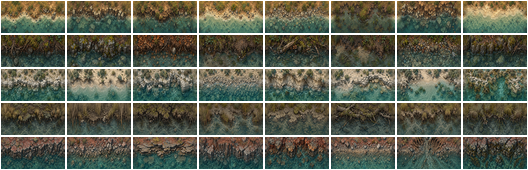
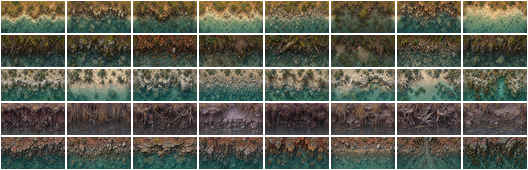
Add custom ridge boundaries bridge spans and plum peat banks

Changed region(s): [[0.0, 0.5882, 1.0, 0.7941]]

diff --git a/images/dark-fantasy/map-generation-prototype/terrain-composition.js b/images/dark-fantasy/map-generation-prototype/terrain-composition.js
@@ -51,12 +51,12 @@ export function composeTerrainLandscape({ map, art, pixel, world, legal, detail 
   const rand = salt => decorationRandom(map.seed ^ 48317, salt);
   const baseKind = kind => kind.replace(/-mirror$/, '').replace(/-small$/, '');
   const make = (kind, x, y, family, salt, allowedBiomes, context) => {
-    const glyph = art[kind], s = shape(glyph), point = world(Math.round(x), Math.round(y + s.height * .5));
+    const glyph = art[kind], s = shape(glyph), point = world(Math.round(x), Math.round(y + s.height * (context === 'ridge-boundary' ? .68 : .5)));
     const p = pixel(point), n = Number(baseKind(kind).split('-').at(-1));
     return { kind, point, salt, family, allowedBiomes, context, composed: true,
       left: Math.round(p.x - s.width / 2), top: Math.round(p.y - s.height),
-      boundary: context !== 'interior', range: family === 'terrain-mountains',
-      peak: family === 'terrain-mountains' && [0, 1, 2, 4, 10].includes(n)
+      boundary: context !== 'interior', ridgeBoundary: context === 'ridge-boundary', anchorHeight: context === 'ridge-boundary' ? .68 : .5, range: family === 'terrain-mountains' || family === 'terrain-ridge-border',
+      peak: family === 'terrain-ridge-border' || family === 'terrain-mountains' && [0, 1, 2, 4, 10].includes(n)
         || family.startsWith('contact-') && CONTACT_PAIRS[Number(family.slice(8))].includes('mountains') && n !== 3 };
   };
   const nearby = prop => props.filter(p => Math.abs(p.left - prop.left) < 85 * detail && Math.abs(p.top - prop.top) < 65 * detail);
@@ -84,7 +84,7 @@ export function composeTerrainLandscape({ map, art, pixel, world, legal, detail 
       for (const p of near) overlap = Math.max(overlap, illustrationOverlap(prop, p, art));
       if (overlap > .58) continue;
       const join = previous ? illustrationOverlap(prop, previous, art) : 0;
-      if (previous && (join < (context === 'ridge' ? .12 : .06) || join > .46)) continue;
+      if (previous && (join < (context.startsWith('ridge') ? .12 : .06) || join > .46)) continue;
       const score = rand(salt + attempt * 31 + 4) * .3
         + (previous ? 1 - Math.abs(join - .22) * 3 : Math.min(.3, overlap)) - Math.max(0, overlap - .38);
       options.push({ prop, score, join });
@@ -94,8 +94,9 @@ export function composeTerrainLandscape({ map, art, pixel, world, legal, detail 
   };
 
   const paths = [];
+  const ridgeArt = !!art['terrain-ridge-border-0'];
   for (const [i, feature] of map.features.entries()) if (feature.type === 'ridge')
-    paths.push({ points: feature.points.map(pixel), family: 'terrain-mountains', allowedBiomes: ['plains', 'forest', 'swamp', 'mountains'], indices: [0, 1, 2, 4, 5, 6, 8, 9], salt: 3001 + i * 991, context: 'ridge' });
+    paths.push({ points: feature.points.map(pixel), family: ridgeArt ? 'terrain-ridge-border' : 'terrain-mountains', directional: ridgeArt, allowedBiomes: ['plains', 'forest', 'swamp', 'mountains'], indices: ridgeArt ? [0, 1, 2, 3, 4, 6, 7, 10] : [0, 1, 2, 4, 5, 6, 8, 9], salt: 3001 + i * 991, context: ridgeArt ? 'ridge-boundary' : 'ridge' });
   // Mountain biomes carry a connected major-axis spine, with low flanks below.
   for (const [i, region] of map.regions.entries()) if (region.biome === 'mountains') {
     const outline = region.outline.map(pixel), centre = pixel(region.centre);
@@ -112,10 +113,11 @@ export function composeTerrainLandscape({ map, art, pixel, world, legal, detail 
   for (const [i, edge] of map.edges.entries()) {
     if (edge.regions.length !== 2) continue;
     const pair = edge.regions.map(id => regions.get(id).biome);
-    if (pair[0] === pair[1]) continue;
+    if (pair[0] === pair[1] && !(ridgeArt && pair.includes('mountains'))) continue;
     const contact = CONTACT_PAIRS.findIndex(p => p.includes(pair[0]) && p.includes(pair[1]));
-    paths.push({ points: edge.points.map(pixel), family: `contact-${contact}`, indices: [0, 1, 2, 3, 4],
-      allowedBiomes: pair, salt: 20003 + i * 919, context: 'boundary' });
+    paths.push({ points: edge.points.map(pixel), family: ridgeArt && pair.includes('mountains') ? 'terrain-ridge-border' : `contact-${contact}`,
+      directional: ridgeArt && pair.includes('mountains'), indices: ridgeArt && pair.includes('mountains') ? [0, 1, 2, 3, 4, 6, 7, 10] : [0, 1, 2, 3, 4],
+      allowedBiomes: pair, salt: 20003 + i * 919, context: ridgeArt && pair.includes('mountains') ? 'ridge-boundary' : 'boundary' });
   }
   for (const [i, coast] of map.geography.coasts.entries()) {
     const edge = map.edges.find(e => e.id === coast.edgeId);
@@ -147,6 +149,7 @@ export function composeTerrainLandscape({ map, art, pixel, world, legal, detail 
 
   // Step by each accepted painting's footprint, vary the spacing, and require
   // real alpha overlap when extending a run. No equal slots or parallel rows.
+  paths.sort((a, b) => Number(b.context === 'ridge-boundary') - Number(a.context === 'ridge-boundary'));
   for (const path of paths) {
     diagnostics.paths++;
     let travelled = 0, next = rand(path.salt) * 12 * detail, previous = null, attempts = 0;
@@ -155,16 +158,19 @@ export function composeTerrainLandscape({ map, art, pixel, world, legal, detail 
       while (length && next <= travelled + length) {
         const t = (next - travelled) / length, x = a.x + (b.x - a.x) * t, y = a.y + (b.y - a.y) * t;
         const salt = path.salt + (++attempts) * 719;
-        let prop = choose({ ...path, x, y, salt, previous });
+        const dx = b.x - a.x, dy = b.y - a.y;
+        const recipe = { ...path, indices: !path.directional ? path.indices : Math.abs(dy) < Math.abs(dx) * .4 ? [0, 1, 6, 7, 10]
+          : Math.abs(dy) > Math.abs(dx) * 2 ? [4, 5, 7, 10] : dx * dy < 0 ? [2, 6, 7, 10] : [3, 6, 7, 10] };
+        let prop = choose({ ...recipe, x, y, salt, previous });
         // Search either side of the predicted join before declaring a gap.
         // This adapts to differently shaped paintings and curved boundaries.
         if (!prop && previous) for (const offset of [-5, 5, -9]) {
-          prop = choose({ ...path, x: x + (b.x - a.x) / length * offset * detail,
+          prop = choose({ ...recipe, x: x + (b.x - a.x) / length * offset * detail,
             y: y + (b.y - a.y) / length * offset * detail, salt: salt + offset * 113, previous });
           if (prop) break;
         }
         if (!prop && previous) { diagnostics.breaks++; previous = null; }
-        if (!prop) prop = choose({ ...path, x, y, salt });
+        if (!prop) prop = choose({ ...recipe, x, y, salt });
         if (prop) {
           if (previous) diagnostics.joined++;
           add(prop); previous = prop;

diff --git a/images/dark-fantasy/map-generation-prototype/pixel-terrain.js b/images/dark-fantasy/map-generation-prototype/pixel-terrain.js
@@ -19,7 +19,7 @@ const ATLAS_GROUND = {
   plains: [0x9f8c69, 0xac9670, 0xb7a17b, 0xc5b18d],
   forest: [0x777556, 0x898164, 0x969174, 0xa39b7b],
   islands: [0x9eaa83, 0xabb48e, 0xb5bc99, 0xc1c5a6],
-  swamp: [0x515f5b, 0x65736c, 0x7d8b7b, 0x9ba38c],
+  swamp: [0x55505d, 0x6d6170, 0x867b87, 0x9c8c99],
   mountains: [0x827869, 0x958774, 0xa49782, 0xb4a792],
   highlands: [0x25292e, 0x30353c, 0x3d434b, 0x4b5159],
   marsh: [0x202429, 0x2b2f36, 0x363b42, 0x454b51],
@@ -77,8 +77,8 @@ const samplePlane = (plane, x, y) => x < plane.x || y < plane.y || x >= plane.x 
 function glyphPosition(terrain, prop, flipX, flipY) {
   const art = ART_BANKS[terrain.stats.texel === 2 ? 2 : 1][prop.kind], { texel } = terrain.stats, sx = flipX ? -1 : 1, sy = flipY ? -1 : 1;
   return { sx, sy, left: Math.round(sx * (prop.point.x - terrain.bounds.minX) * 1576 / texel - Math.max(...art.rows.map(r => r.length)) / 2),
-    top: Math.round(sy * ((prop.point.y - terrain.bounds.minY) * 516 / texel - (prop.composed ? art.rows.length / 2 : 0))
-      - art.rows.length * (prop.composed ? .5 : 1)) };
+    top: Math.round(sy * ((prop.point.y - terrain.bounds.minY) * 516 / texel - (prop.composed ? art.rows.length * (prop.anchorHeight ?? .5) : 0))
+      - art.rows.length * (prop.composed ? 1 - (prop.anchorHeight ?? .5) : 1)) };
 }
 function mixColour(a, b, t) {
   return [16, 8, 0].reduce((c, shift) => c | Math.round(((a >> shift) & 255) * (1 - t) + ((b >> shift) & 255) * t) << shift, 0);
@@ -112,7 +112,7 @@ export function reliefSpriteTextures(terrain, flipX, flipY) {
       if (prop.kind.includes('hill') && !art.illustrated && code !== 'a' && code !== 'b') colour = mixColour(colour, bank[2], .75);
       const foot = Math.min(1, (art.rows.length - y) / Math.max(3, art.rows.length * (art.composable ? .22 : .12)));
       ctx.globalAlpha = (art.opacity?.[y][x] ?? (code === 'f' ? .32 : 1)) * foot
-        * (1 - samplePlane(terrain.divisionClearance, ix, iy) / 255);
+        * (prop.ridgeBoundary ? 1 : 1 - samplePlane(terrain.divisionClearance, ix, iy) / 255);
       ctx.fillStyle = `#${colour.toString(16).padStart(6, '0')}`;
       ctx.fillRect(i % columns * cell + 2 + x, Math.floor(i / columns) * cell + 2 + y, 1, 1);
     }));
@@ -138,8 +138,8 @@ export function pixelSpriteFits(terrain, prop, flipX, flipY) {
   const art = ART_BANKS[terrain.stats.texel === 2 ? 2 : 1][prop.kind], { texel, width, height } = terrain.stats;
   const px = (prop.point.x - terrain.bounds.minX) * 1576 / texel, py = (prop.point.y - terrain.bounds.minY) * 516 / texel;
   const sx = flipX ? -1 : 1, sy = flipY ? -1 : 1, w = Math.max(...art.rows.map(r => r.length));
-  const left = Math.round(sx * px - w / 2), top = Math.round(sy * (py - (prop.composed ? art.rows.length / 2 : 0))
-    - art.rows.length * (prop.composed ? .5 : 1));
+  const left = Math.round(sx * px - w / 2), top = Math.round(sy * (py - (prop.composed ? art.rows.length * (prop.anchorHeight ?? .5) : 0))
+    - art.rows.length * (prop.composed ? 1 - (prop.anchorHeight ?? .5) : 1));
   return art.rows.every((row, y) => [...row].every((code, x) => {
     if (code === '.') return true;
     const ix = Math.floor(sx * (left + x + .5)), iy = Math.floor(sy * (top + y + .5));
@@ -250,7 +250,8 @@ export function bakePixelTerrain(map, { texel = 2, sampleBackground, sites = tru
   const surfaceTreatments = paintOcean({ map, width, height, texel, bounds, land, waterIndices, colours,
     regionIds, seaDistance, dryDistance, shoreTypes, waterBank, groundBank, noise, mixColour, waterBase, waterStrength, surfaces });
   const wetlands = paintWetlandPools({ map, pixel, width, height, detail, regionIds, land, dryDistance,
-    colours, waterIndices, waterBase, waterStrength, noise, mixColour });
+    colours, waterIndices, waterBase, waterStrength, noise, mixColour, surfaces, protectedCentres: sites ? map.regions.filter(r => r.biome !== 'islands')
+      .filter((r, i) => i === 2 || i === 7 || i === 12).map(r => pixel(r.centre)) : [] });
   const put = (x, y, colour, water = 0, onlyDry = false) => {
     if (x < 0 || y < 0 || x >= width || y >= height) return;
     const i = y * width + x; if (onlyDry && !land[i]) return;
@@ -470,7 +471,8 @@ export function bakePixelTerrain(map, { texel = 2, sampleBackground, sites = tru
     }
     const spans = bridgeSpans(samples, p => waterIndices[p.y * width + p.x], detail);
     bridges += spans.length;
-    for (const span of spans) paintBridge(span, detail, roadDot);
+    for (const [n, span] of spans.entries()) paintBridge(span, detail, roadDot, {
+      art: ART[`terrain-bridge-${(n + bridges + map.seed) % 8}`], context: roadCtx, origin: { x: bx, y: by } });
   }
   // Replace playable scatter with connected terrain compositions. Existing
   // background engraving and coastal accents remain; towns keep their anchors.

diff --git a/images/dark-fantasy/map-generation-prototype/wetland-ground.js b/images/dark-fantasy/map-generation-prototype/wetland-ground.js
@@ -1,28 +1,57 @@
 // Open wetland silhouettes remain readable at Fit; fine rushes come from art.
 // The pool field is world seeded and baked once, never regenerated by zoom.
 export function paintWetlandPools({ map, pixel, width, height, detail, regionIds, land, dryDistance,
-  colours, waterIndices, waterBase, waterStrength, noise, mixColour }) {
-  const centres = map.regions.map(r => pixel(r.centre));
-  const stats = { pools: 0, margins: 0 };
+  colours, waterIndices, waterBase, waterStrength, noise, mixColour, surfaces = null, protectedCentres = null }) {
+  const centres = protectedCentres ?? map.regions.map(r => pixel(r.centre));
+  const stats = { pools: 0, margins: 0, illustratedBanks: 0 };
   for (let y = 2; y < height - 2; y++) for (let x = 2; x < width - 2; x++) {
     const i = y * width + x, region = map.regions[regionIds[i]];
     if (!region || region.biome !== 'swamp' || !land[i] || waterIndices[i] || dryDistance[i] < 14) continue;
-    if (Math.hypot(x - centres[regionIds[i]].x, y - centres[regionIds[i]].y) < 10 * detail) continue;
     // Preserve dry approaches around fixtures and a margin for border banks.
     if ([i - 8, i + 8, i - width * 8, i + width * 8].some(j => regionIds[j] !== regionIds[i])) continue;
     const broad = noise(map.seed ^ 51991, x, y * 1.6, 29 * detail);
     const fine = noise(map.seed ^ 9713, x, y, 8 * detail);
-    const field = broad * .8 + fine * .2;
+    const approach = centres.reduce((d, p) => Math.min(d, Math.hypot(x - p.x, y - p.y)), Infinity);
+    const field = broad * .8 + fine * .2 - .28 * Math.exp(-((approach / (12 * detail)) ** 2));
     if (field > .61) {
       const depth = Math.min(1, (field - .61) * 6);
-      const base = mixColour(0x617b78, 0x3f5f63, depth);
+      const base = mixColour(0x6a687b, 0x434858, depth);
       const phase = ((x + Math.floor(y * .4)) % 8 + 8) % 8;
       waterIndices[i] = 48 + phase; waterBase[i] = base; waterStrength[i] = 18;
-      colours[i] = mixColour(base, 0x9aac9c, fine > .65 ? .24 : .07);
+      colours[i] = mixColour(base, 0xaaa1b2, fine > .65 ? .24 : .07);
       stats.pools++;
     } else if (field > .55) {
-      colours[i] = mixColour(colours[i], fine > .5 ? 0x899789 : 0x454f43, .58);
+      colours[i] = mixColour(colours[i], fine > .5 ? 0x998b9e : 0x514854, .58);
       stats.margins++;
+    }
+  }
+  if (surfaces && stats.pools) {
+    const cap = 36 * detail, wet = new Uint16Array(width * height), dry = new Uint16Array(width * height);
+    const pool = i => land[i] && map.regions[regionIds[i]]?.biome === 'swamp' && waterIndices[i] >= 48 && waterIndices[i] <= 55;
+    for (let i = 0; i < wet.length; i++) { wet[i] = pool(i) ? cap : 0; dry[i] = pool(i) ? 0 : cap; }
+    for (const field of [wet, dry]) {
+      for (let y = 0; y < height; y++) for (let x = 0; x < width; x++) {
+        const i = y * width + x;
+        field[i] = Math.min(field[i], x ? field[i - 1] + 3 : cap, y ? field[i - width] + 3 : cap);
+      }
+      for (let y = height - 1; y >= 0; y--) for (let x = width - 1; x >= 0; x--) {
+        const i = y * width + x;
+        field[i] = Math.min(field[i], x < width - 1 ? field[i + 1] + 3 : cap, y < height - 1 ? field[i + width] + 3 : cap);
+      }
+    }
+    for (let y = 1; y < height - 1; y++) for (let x = 1; x < width - 1; x++) {
+      const i = y * width + x;
+      if (!land[i] || map.regions[regionIds[i]]?.biome !== 'swamp') continue;
+      const submerged = pool(i), field = submerged ? wet : dry, d = field[i] / 3;
+      const reach = (submerged ? 5 : 8) * detail;
+      if (d >= reach || (!submerged && waterIndices[i])) continue;
+      const horizontal = Math.abs(field[i + 1] - field[i - 1]) < Math.abs(field[i + width] - field[i - width]);
+      const depth = submerged ? .53 + .42 * d / reach : .46 * (1 - d / reach);
+      const colour = surfaces.bank('swamp', x, y, depth, horizontal);
+      const feather = Math.pow(1 - d / reach, .7) * .86;
+      if (submerged) waterBase[i] = mixColour(waterBase[i], colour, feather * .7);
+      else colours[i] = mixColour(colours[i], colour, feather);
+      stats.illustratedBanks++;
     }
   }
   return stats;

diff --git a/images/dark-fantasy/map-generation-prototype/road-crossings.js b/images/dark-fantasy/map-generation-prototype/road-crossings.js
@@ -21,9 +21,31 @@ export function bridgeSpans(samples, waterAt, detail) {
   return spans;
 }
 
-export function paintBridge(span, detail, dot) {
+const bridgeImages = new WeakMap();
+function bridgeImage(art) {
+  if (bridgeImages.has(art)) return bridgeImages.get(art);
+  const canvas = document.createElement('canvas'); canvas.width = art.rows[0].length; canvas.height = art.rows.length;
+  const ctx = canvas.getContext('2d');
+  art.rows.forEach((row, y) => [...row].forEach((code, x) => {
+    if (!art.colours[code]) return;
+    ctx.globalAlpha = art.opacity?.[y][x] ?? 1; ctx.fillStyle = art.colours[code]; ctx.fillRect(x, y, 1, 1);
+  }));
+  bridgeImages.set(art, canvas); return canvas;
+}
+
+export function paintBridge(span, detail, dot, stamp = null) {
   const { a, b } = span, dx = b.x - a.x, dy = b.y - a.y, length = Math.hypot(dx, dy);
   if (!length) return;
+  if (stamp?.art) {
+    const ctx = stamp.context, image = bridgeImage(stamp.art);
+    // One coherent low span at world scale. No bright enlarged procedural piers.
+    ctx.save(); ctx.globalAlpha = 1; ctx.imageSmoothingEnabled = false;
+    ctx.translate((a.x + b.x) / 2 - stamp.origin.x, (a.y + b.y) / 2 - stamp.origin.y);
+    ctx.rotate(Math.atan2(dy, dx));
+    const stampWidth = length + 2 * detail, stampHeight = Math.min(4 * detail, stampWidth * image.height / image.width);
+    ctx.drawImage(image, -stampWidth / 2, -stampHeight / 2, stampWidth, stampHeight);
+    ctx.restore(); return;
+  }
   const nx = -dy / length, ny = dx / length, half = 2 * detail, steps = Math.ceil(length);
   const at = (t, side, colour, shadow = 0) => dot(Math.round(a.x + dx * t + nx * side), Math.round(a.y + dy * t + ny * side + shadow), 0, colour);
   // Cast shadow, continuous dark structure, timber deck and cross-grain planks.

diff --git a/images/dark-fantasy/map-generation-prototype/terrain-interactions.js b/images/dark-fantasy/map-generation-prototype/terrain-interactions.js
@@ -4,7 +4,7 @@ export const SHORE_TREATMENTS = {
   plains: { bank: 0x78664a, sediment: 0xc5b78c, road: [0xa28d65, 0xc3b18a], beach: 14, exposure: .9 },
   forest: { bank: 0x424936, sediment: 0x92956a, road: [0x6b6446, 0xa49b70], beach: 5, exposure: .6 },
   islands: { bank: 0x8a8e69, sediment: 0xd3cbae, road: [0xa7a27a, 0xd0c6a0], beach: 18, exposure: .8 },
-  swamp: { bank: 0x414b40, sediment: 0x78846d, road: [0x6e6958, 0xaaa18b], beach: 24, exposure: .18 },
+  swamp: { bank: 0x55475b, sediment: 0x96869a, road: [0x6e6958, 0xaaa18b], beach: 24, exposure: .18 },
   mountains: { bank: 0x615047, sediment: 0xa3927f, road: [0x8b7161, 0xbfa991], beach: 4, exposure: 1 },
 };
 const biomes = [null, 'plains', 'forest', 'islands', 'swamp', 'mountains'];
@@ -65,7 +65,7 @@ export function paintOcean({ map, width, height, texel, bounds, land, waterIndic
         const substrate = surfaces.bank(material, x, y, .52 + Math.min(.45, distance / 38), horizontal);
         waterBase[i] = mixColour(waterBase[i], substrate, Math.exp(-distance / 9) * .52);
       }
-      if (material === 'swamp') waterBase[i] = mixColour(waterBase[i], 0x6e8270, Math.exp(-distance / 11) * .7);
+      if (material === 'swamp') waterBase[i] = mixColour(waterBase[i], 0x74657b, Math.exp(-distance / 11) * .7);
       const strength = index >= 160 && index < 192 ? .2 + lace * .65
         : index >= 208 ? clamp((fine - .5) * 2) * .7
         : index >= 128 && index < 160 ? clamp((lace - .35) * 2.8) * (.18 + broad * .45)

diff --git a/images/dark-fantasy/map-generation-prototype/composable-art.js b/images/dark-fantasy/map-generation-prototype/composable-art.js
@@ -1,4 +1,4 @@
-export const composableLibrary = { biomePieces: 60, boundaryPieces: 50, cells: [], sheets: 7 };
+export const composableLibrary = { biomePieces: 60, boundaryPieces: 50, cells: [], sheets: 9 };
 
 // Source hues carry the material information: leaves, trunks, earth and rock.
 // Small channel corrections preserve those differences and the painted light.
@@ -7,7 +7,10 @@ export function gradeTerrainColour(r, g, b, family) {
   const stone = Math.max(r, g, b) - Math.min(r, g, b) < 35;
   let gains = [1.06, 1.055, 1.08];
   if (family === 'forest' && foliage) gains = [1.01, 1.075, 1.035];
-  if (family === 'swamp') gains = foliage ? [.98, 1.025, 1.06] : [1.025, 1.045, 1.10];
+  if (family === 'swamp') {
+    const peat = b > g * .70 && r < g * 1.35;
+    gains = peat ? [1.10, .95, 1.20] : foliage ? [1.04, .99, 1.08] : [1.04, 1.02, 1.04];
+  }
   if (family === 'mountains' && stone) gains = [1.085, 1.035, 1.025];
   return [r, g, b].reduce((rgb, value, i) => rgb | Math.min(255, Math.round(value * gains[i] + 3)) << (16 - i * 8), 0);
 }

diff --git a/images/dark-fantasy/map-generation-prototype/index.html b/images/dark-fantasy/map-generation-prototype/index.html
@@ -16,6 +16,6 @@
     <p class="note">All map graphics and controls are in the Pixi window. Fullscreen keeps the game’s fixed landscape format. Atlas uses new map-scale landmarks with overview, regional and close detail. Zoom smoothly to see them change; Detail can force each level. Compare Smooth zoom and Nearest pixels. Sites cycles new map art, old game assets, sketch markers and off. Water and fog animation are a later study. Tap any region to inspect it.</p>
     <details><summary>Prototype state &amp; assumptions</summary><pre id="state"></pre></details>
   </main>
-  <script type="module" src="images/dark-fantasy/map-generation-prototype/study.js?v=ridge-wetlands-2"></script>
+  <script type="module" src="images/dark-fantasy/map-generation-prototype/study.js?v=custom-boundaries-1"></script>
 </body>
 </html>

diff --git a/images/dark-fantasy/map-generation-prototype/study.js b/images/dark-fantasy/map-generation-prototype/study.js
@@ -518,7 +518,7 @@ function drawTerrainLayer(art, parent) {
       origin.y + Math.round((p.y - node.height - origin.y) / density) * density);
     // Terrain compositions keep their geographic centre when reflected. A
     // bottom anchor would shift every upright painting by its full height.
-    if (state.flipY && prop.composed) node.position.y += node.height;
+    if (state.flipY && prop.composed) node.position.y += node.height * 2 * (prop.anchorHeight ?? .5);
     node.alpha = prop.background ? .9 : 1; parent.addChild(node);
   };
   props.filter(prop => !prop.kind.startsWith('ruin') && !liveSites.some(site => {

diff --git a/images/dark-fantasy/map-generation-prototype/terrain-divisions.js b/images/dark-fantasy/map-generation-prototype/terrain-divisions.js
@@ -46,7 +46,7 @@ export function paintRegionDivisions({ map, pixel, width, height, detail, land, 
         }
         let shade, amount;
         if (d < core) {
-          shade = type === 'peat-channel' ? 0x344b45 : type === 'woodland-bank' ? 0x343c2d
+          shade = type === 'peat-channel' ? 0x4b4056 : type === 'woodland-bank' ? 0x343c2d
             : type === 'escarpment' ? 0x51413a : 0x5a5040;
           amount = .78;
         } else if (signed < 0) {

diff --git a/scripts/import-map-terrain.py b/scripts/import-map-terrain.py
@@ -79,9 +79,15 @@ def import_surfaces():
     banks = {}
     for biome in BIOMES:
         raw = swatches(MASTER / f'ground-{biome}-v1.png', 4, 4, (SIZE, SIZE))
+        if biome == 'swamp':
+            for tile in raw:
+                rgb = tile[..., :3].astype(float)
+                peat = (rgb[..., 2] > rgb[..., 1] * .70) & (rgb[..., 0] < rgb[..., 1] * 1.35)
+                rgb[peat] = rgb[peat] * [1.10, .92, 1.18] + [3, 0, 8]
+                tile[..., :3] = np.clip(rgb, 0, 255).astype(np.uint8)
         common = periodic(raw[0])
         ground[biome] = [conform(tile, common) for tile in raw]
-        raw_banks = swatches(MASTER / f'bank-{biome}-v1.png', 2, 4, (64, 32))
+        raw_banks = swatches(MASTER / (f'bank-{biome}-v2.png' if biome == 'swamp' else f'bank-{biome}-v1.png'), 2, 4, (64, 32))
         # Along-bank strips share left/right colour samples; depth is preserved.
         common_bank = raw_banks[0].astype(float).copy()
         for d in range(4):
@@ -175,9 +181,9 @@ def import_surfaces():
 
 def import_relief():
     images, records = [], []
-    sheets = [(b, 4, 3) for b in BIOMES] + [('contacts-1', 5, 5), ('contacts-2', 5, 5)]
+    sheets = [(b, 4, 3) for b in BIOMES] + [('contacts-1', 5, 5), ('contacts-2', 5, 5), ('ridge-border', 4, 3), ('bridge', 4, 2)]
     for name, columns, rows in sheets:
-        source_path = MASTER / f'composable-{name}-v2.png' if name in ['mountains', 'swamp'] else BASE / f'composable-{name}-v1.png'
+        source_path = MASTER / f'composable-{name}-v2.png' if name in ['mountains', 'swamp'] else MASTER / f'composable-{name}-v1.png' if name in ['ridge-border', 'bridge'] else BASE / f'composable-{name}-v1.png'
         source = Image.open(source_path).convert('RGBA')
         payload = json.dumps([source.width, source.height, columns, rows]).encode() + b'\n' + source.tobytes()
         probe = subprocess.run(['node', str(ROOT / 'scripts/map-terrain-frame-probe.mjs')], input=payload, capture_output=True, check=True)
@@ -196,6 +202,8 @@ def import_relief():
             kind = f'contact-{pair}-{n % columns}' if contact else f'terrain-{name}-{n}'
             scale = [1.2, 1, .85, 1.1, 1.05, .8, .75, 1.15, .9, 1, .8, .85][n] if not contact else 1
             width = 50 if contact else round((36 if name == 'mountains' else 26 if name == 'forest' else 25) * scale) * 2
+            if name == 'ridge-border': width = 92 if n < 8 else 64
+            if name == 'bridge': width = 64
             height = min(118, max(1, round(width * cropped.height / cropped.width)))
             image = np.array(cropped.resize((width, height), Image.Resampling.LANCZOS))
             images.append(image)
@@ -227,4 +235,4 @@ if __name__ == '__main__':
     import_surfaces()
     import_relief()
     total = sum(p.stat().st_size for p in OUT.iterdir() if p.suffix in ['.webp', '.json'])
-    print(f'Map art import: 635 terrain cases, 40 bank profiles, 110 relief frames; runtime files {total / 1048576:.2f} MiB')
+    print(f'Map art import: 635 terrain cases, 40 bank profiles, 130 relief frames; runtime files {total / 1048576:.2f} MiB')

diff --git a/scripts/check-map-terrain.py b/scripts/check-map-terrain.py
@@ -47,9 +47,9 @@ for biome in biomes:
         assert np.array_equal(common, bank[:, 0]), f'{biome} bank variations cannot join'
 
 relief = json.loads((folder / 'relief-v1.json').read_text())
-assert len(relief['frames']) == 110
+assert len(relief['frames']) == 130
 assert {r['kind'] for r in relief['frames'] if r['cutRuns']} == {'contact-7-2', 'contact-8-2'}, 'Replacement biome art must have complete extractable edges'
 assert all(r['rect'][2] <= 118 and r['rect'][3] <= 118 for r in relief['frames'])
 total = sum(p.stat().st_size for p in folder.iterdir() if p.suffix in ['.webp', '.json'])
 assert total < 3 * 1048576, 'Imported art exceeded the prototype runtime budget'
-print(f'Map terrain: 635 cases across five biomes, exact ground/contact/bank pixel joins, 110 relief frames; {total / 1048576:.2f} MiB.')
+print(f'Map terrain: 635 cases across five biomes, exact ground/contact/bank pixel joins, 130 relief frames; {total / 1048576:.2f} MiB.')

diff --git a/images/dark-fantasy/map-generation-prototype/README.md b/images/dark-fantasy/map-generation-prototype/README.md
@@ -1,5 +1,34 @@
 # Map generation Pixi workbench (disposable prototype)
 
+### Custom ridge boundaries, bridge spans and peat banks
+
+The current pass adds 12 directional ridge-boundary pieces, eight compact bridge
+spans and eight plum-grey peat-bank profiles, generated with built-in imagegen.
+The exact prompts and source names are in
+[custom-boundary-prompts.json](assets/masters/custom-boundary-prompts.json).
+Sources are preserved in `assets/masters/`; reduced imports total about 2.08 MiB.
+The relief atlas now contains 130 frames, 128 usable, plus 40 bank profiles.
+
+Shared mountain-region edges, including mountain/mountain pairs, use the custom
+crests, bends, diagonal sections, saddles and passes. Those paths get placement
+priority, use direction-specific candidates and keep their own crest anchor
+through vertical reflection. Their crest pixels stay intact rather than being
+cut by the generic terrain-division stencil. Rivers and ocean exclusions remain.
+
+Bridges use one compact generated span fitted between actual dry-bank approaches,
+replacing bright enlarged procedural piers. Pool banks sample the generated peat,
+root, clay and reed profiles on both sides of the actual pool distance field;
+they are not rectangular sprites placed beside a guessed shoreline. Quiet pool
+depth washes retain the cycle-index planes. Ground peat/clay and neutral relief
+are selectively graded toward smoky plum; golden rushes and wood retain colour.
+Only actual sample-town approaches shape dry clearings, with a smooth field falloff
+rather than mandatory circular holes at every region centre.
+
+Inspect seed 1878 at Fit and close zoom, then 1869 reflected. Run the terrain,
+wetland and crossing checks below. This changes disposable illustration only;
+simulation state, RNG, schemas, region ownership, connectivity and replay remain
+unchanged.
+
 ### Connected high ridges and open wetlands
 
 Mountain and swamp relief now use version-2 source sheets in `assets/masters/`.
